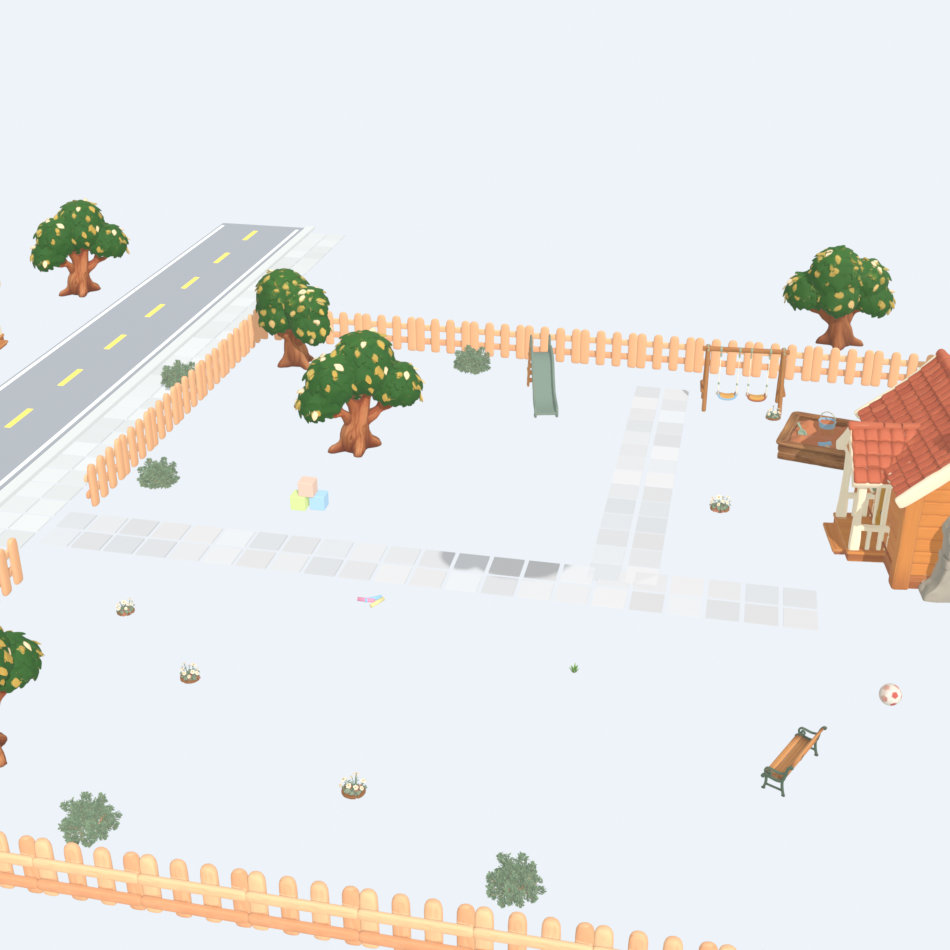
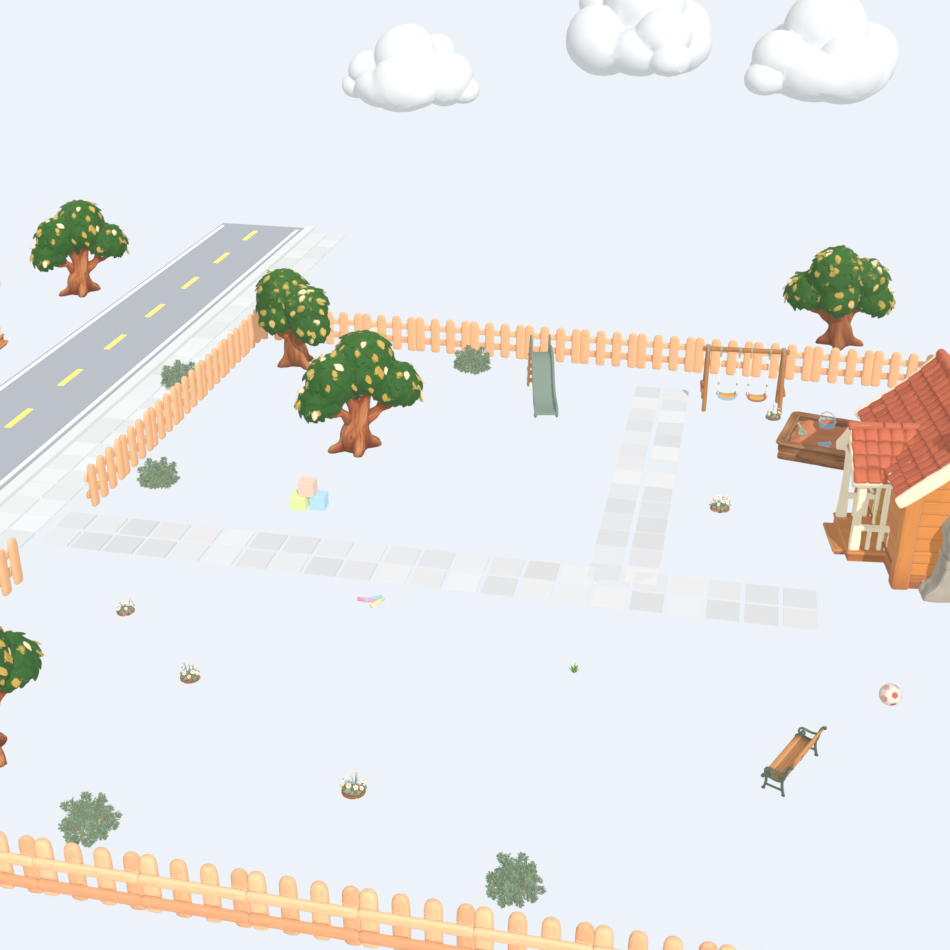
Sky and clouds visible in gameplay camera: blue gradient to horizon, camera look raised, user clouds parked large on north horizon, fog-free

diff --git a/src/main.ts b/src/main.ts
@@ -33,7 +33,7 @@ import brunoMission from './story/bruno.json'
 // v-параметры обновлять при замене ассетов — сбрасывают кеш браузера.
 const ASSET_SOPHIE = '/assets/sophie_meshy2.glb?v=3'
 const ASSET_BRUNO = '/assets/bruno_meshy.glb?v=5'
-const ASSET_ENV = '/assets/environment2.glb?v=4'
+const ASSET_ENV = '/assets/environment2.glb?v=9'
 
 const container = document.getElementById('app')
 if (!container) throw new Error('Missing #app container')
@@ -149,7 +149,14 @@ async function bootWorld(): Promise<void> {
     }
     for (let i = 1; i <= 4; i++) {
       const cl = env.root.getObjectByName(`Cloud${i}`)
-      if (cl) cloudNodes.push(cl)
+      if (cl) {
+        cloudNodes.push(cl)
+        // облака не должны тонуть в тумане дальнего плана
+        cl.traverse((ch) => {
+          const mesh = ch as THREE.Mesh
+          if (mesh.isMesh) (mesh.material as THREE.Material & { fog?: boolean }).fog = false
+        })
+      }
     }
   } catch (err) {
     console.warn('[Environment] failed — falling back to grey box world', err)
@@ -191,8 +198,8 @@ game.addUpdatable((dt, elapsed) => {
   })
   // облака: очень медленный дрейф с заворотом по кругу
   cloudNodes.forEach((n, i) => {
-    n.position.x += dt * (0.12 + i * 0.03)
-    if (n.position.x > 26) n.position.x = -26
+    n.position.x += dt * (0.25 + i * 0.08)
+    if (n.position.x > 42) n.position.x = -42
   })
 })
 game.addUpdatable(() => tapCue.update())

diff --git a/src/core/Environment.ts b/src/core/Environment.ts
@@ -92,12 +92,12 @@ function buildSkyDome(): THREE.Mesh {
   const geo = new THREE.SphereGeometry(70, 32, 20)
   const pos = geo.attributes.position
   const colors = new Float32Array(pos.count * 3)
-  const top = new THREE.Color(0xb9ddf3)
-  const horizon = new THREE.Color(0xf6ecd8)
+  const top = new THREE.Color(0x8ecdf4)
+  const horizon = new THREE.Color(0xd9ecf6)
   const c = new THREE.Color()
   for (let i = 0; i < pos.count; i++) {
     const t = Math.min(1, Math.max(0, pos.getY(i) / 70))
-    c.copy(horizon).lerp(top, Math.pow(t, 0.65))
+    c.copy(horizon).lerp(top, Math.pow(t, 0.22))
     colors[i * 3] = c.r
     colors[i * 3 + 1] = c.g
     colors[i * 3 + 2] = c.b

diff --git a/src/camera/FollowCamera.ts b/src/camera/FollowCamera.ts
@@ -1,7 +1,7 @@
 import * as THREE from 'three'
 
-const OFFSET = new THREE.Vector3(0, 8, 10) // above and slightly behind (Sims-like)
-const LOOK_AHEAD = new THREE.Vector3(0, 0.6, 0)
+const OFFSET = new THREE.Vector3(0, 7, 11.5) // above and slightly behind (Sims-like)
+const LOOK_AHEAD = new THREE.Vector3(0, 1.6, 0) // повыше: в кадре полоса неба
 const POSITION_DAMP = 3.0 // higher = tighter follow
 const LOOK_DAMP = 4.0
 const FOCUS_OFFSET = new THREE.Vector3(0, 3.2, 4.6) // closer view for CHOICE

diff --git a/tools/blender/build_environment2.py b/tools/blender/build_environment2.py
@@ -361,8 +361,11 @@ for j, (xz, rd, sc) in enumerate([((-16.9, -10.0), 0, 1.0),
     place(ob, b(*xz), rot_deg=rd, scale=sc)
 
 # --------------------------------------------------------------- облака
-CLOUDS = [((-16.0, 10.0), 17.0, 0.9, 0), ((10.0, -20.0), 19.5, 1.15, 40),
-          ((22.0, 5.0), 18.0, 0.8, 200), ((-8.0, -26.0), 21.0, 1.0, 120)]
+# blender y_b = -z_three: облака на СЕВЕРЕ (z_three < 0) — видны камере
+# далеко на севере и крупно: в игровой камере видна лишь полоса у
+# горизонта — облака живут именно там, над крышами соседей
+CLOUDS = [((-20.0, 58.0), 1.5, 2.2, 0), ((8.0, 62.0), 2.5, 2.8, 40),
+          ((28.0, 60.0), 2.0, 2.4, 200), ((-5.0, 66.0), 3.0, 3.0, 120)]
 for i, (xz, h, sc, rd) in enumerate(CLOUDS):
     cobj = cloud if i == 0 else linked_copy(cloud, f'Cloud{i + 1}')
     cobj.rotation_mode = 'XYZ'
